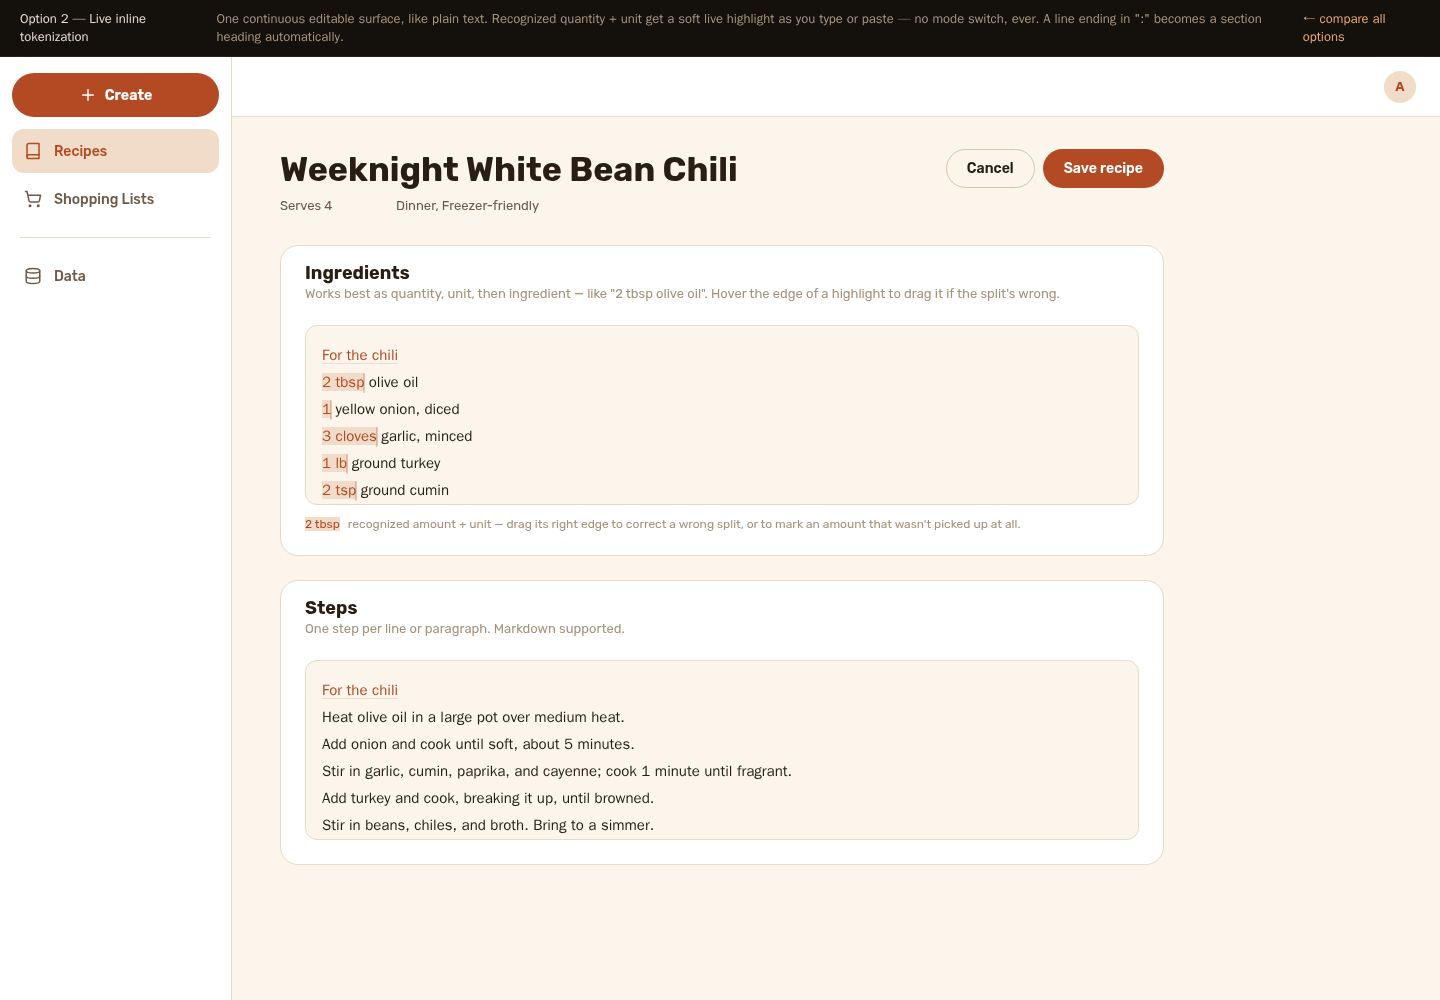
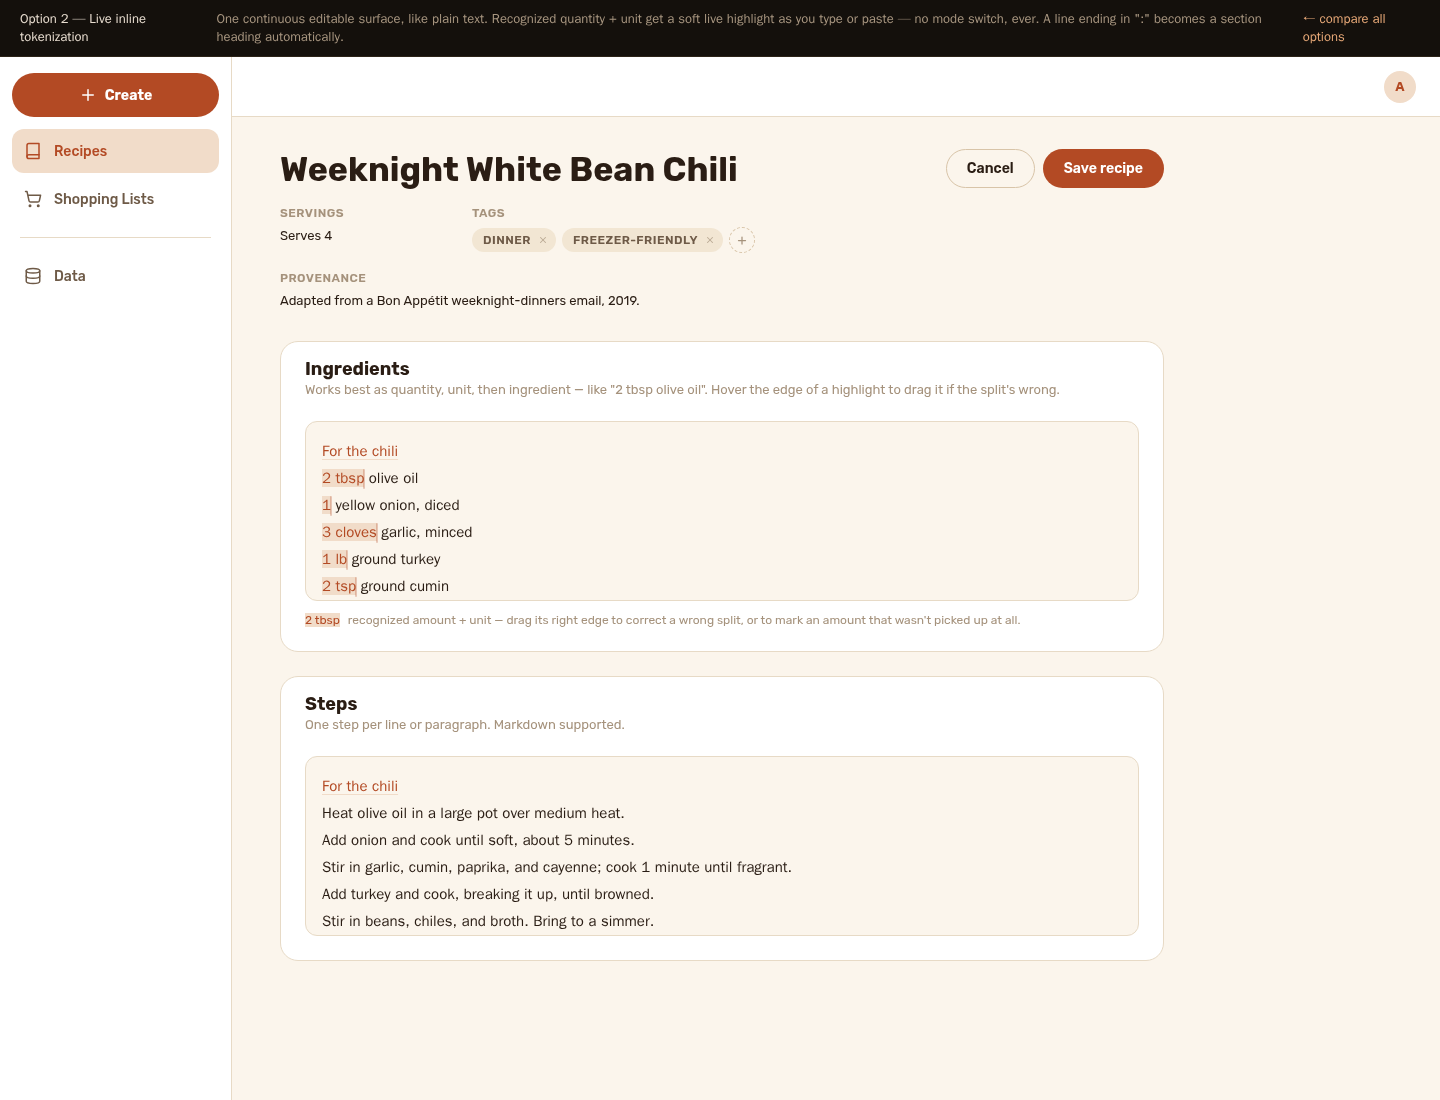
DAMN-2 mockups: editable-field affordance, provenance, tokenized tags
Owner feedback on the chosen direction (option 2):

- Recipe title/servings/provenance now show a hover tint + focus ring
  (.editable) so they read as live fields, not static labels, while
  still matching the plain-text look of the read view at rest.
- Added a Provenance field (freetext, matching the data model's
  free-text provenance column) — supports a short note, an attribution
  with a page number, or a link, per the owner's examples.
- Tags are now tokenized chips instead of a comma-separated string
  input, with a "+" control that opens an inline search/create box:
  type to filter existing tags, click to add, or hit Enter to create a
  new one verbatim if nothing matches. Chips render immediately as
  they're added — the box stays open and focused for adding several in
  a row, closes on Escape or click-away.
- Fixed the reported cursor-flicker during drag: renderOverlay tears
  down and rebuilds the handle DOM on every mousemove, so the pointer's
  hit-target kept disappearing mid-drag and the browser's cursor icon
  flickered between ew-resize and the textarea's default. A full-
  viewport capture layer during the drag keeps the pointer over one
  stable element for the whole gesture.

Verified with scripted interaction, not just visual review: tag
search/filter/create/remove (confirming chips appear immediately while
the input stays open and focused, not only after closing it), and a
full regression of the earlier geometry, click-to-caret, and drag
[…]

diff --git a/docs/features/DAMN-2-recipe-entry-and-versioning/mockups/entry-option-2-live-inline.html b/docs/features/DAMN-2-recipe-entry-and-versioning/mockups/entry-option-2-live-inline.html
@@ -28,10 +28,78 @@
   .main { grid-area: main; overflow: auto; padding: var(--space-6) var(--space-7); max-width: 980px; }
 
   .editbar { display: flex; align-items: flex-start; justify-content: space-between; gap: var(--space-5); margin-bottom: var(--space-6); }
-  .title-input { font-size: var(--text-3xl); font-weight: var(--weight-bold); border: none; background: transparent; color: var(--color-text-primary); width: 100%; padding: 0; font-family: inherit; }
-  .title-input:focus { outline: none; }
-  .meta-row { display: flex; gap: var(--space-4); margin-top: var(--space-2); }
-  .meta-row input { border: none; background: transparent; color: var(--color-text-secondary); font-size: var(--text-sm); font-family: inherit; padding: 0; }
+
+  /*
+   * Editability affordance: at rest these read like plain text (matches the read
+   * view), but a hover tint + focus ring make clear they're live fields, not
+   * labels. The negative margin offsets the padding so adding it doesn't nudge
+   * surrounding layout.
+   */
+  .editable {
+    border: none; border-radius: var(--radius-sm); background: transparent; color: var(--color-text-primary);
+    font-family: inherit; padding: 4px 6px; margin: -4px -6px;
+    transition: background var(--dur-quick) var(--ease-out);
+  }
+  .editable:hover { background: var(--color-bg-tertiary); }
+  .editable:focus { background: var(--color-bg-tertiary); outline: 2px solid var(--color-focus); outline-offset: 0; }
+  .editable::placeholder { color: var(--color-text-tertiary); font-weight: var(--weight-regular); }
+
+  .title-input { font-size: var(--text-3xl); font-weight: var(--weight-bold); width: 100%; }
+  .field-label {
+    display: block; font-size: var(--text-xs); font-weight: var(--weight-semibold); text-transform: uppercase;
+    letter-spacing: var(--tracking-caps); color: var(--color-text-tertiary); margin-bottom: 5px;
+  }
+  .meta-grid { display: flex; flex-wrap: wrap; gap: var(--space-6); margin-top: var(--space-4); }
+  .meta-field { min-width: 160px; }
+  .meta-field.tags-field { flex: 1; min-width: 240px; }
+  .servings-input { font-size: var(--text-sm); width: 140px; }
+  .provenance-field { margin-top: var(--space-4); max-width: 640px; }
+  .provenance-input { font-size: var(--text-sm); width: 100%; }
+
+  /* ---- tags: tokenized, with an inline add/search control ------------------- */
+  .tag-list { display: flex; flex-wrap: wrap; align-items: center; gap: 6px; min-height: 30px; }
+  /* display:contents so the wrapper is addressable for targeted re-renders (adding
+     a tag shouldn't touch the open input sitting next to it) without becoming a
+     flex item itself — its chip children still lay out directly in .tag-list. */
+  .tag-chips { display: contents; }
+  .tag-chip {
+    display: inline-flex; align-items: center; gap: 4px; padding: 4px 5px 4px 11px; border-radius: var(--radius-full);
+    background: var(--color-bg-tertiary); color: var(--color-text-secondary); font-size: var(--text-xs);
+    font-weight: var(--weight-semibold); text-transform: uppercase; letter-spacing: var(--tracking-caps);
+  }
+  .tag-chip button {
+    display: flex; align-items: center; justify-content: center; width: 16px; height: 16px; border-radius: 50%;
+    border: none; background: transparent; color: var(--color-text-tertiary); cursor: pointer; padding: 0; opacity: 0.7;
+  }
+  .tag-chip button:hover { background: var(--color-border-strong); color: var(--color-text-primary); opacity: 1; }
+  .tag-chip button svg { width: 10px; height: 10px; }
+  .tag-add-btn {
+    display: flex; align-items: center; justify-content: center; width: 26px; height: 26px; border-radius: 50%;
+    border: 1px dashed var(--color-border-strong); background: transparent; color: var(--color-text-tertiary); cursor: pointer;
+  }
+  .tag-add-btn:hover { background: var(--color-bg-tertiary); color: var(--color-accent); border-color: var(--color-accent); }
+  .tag-add-btn svg { width: 13px; height: 13px; }
+  .tag-input-wrap { position: relative; display: inline-block; }
+  .tag-input {
+    font: var(--text-xs)/1 var(--font-sans); font-weight: var(--weight-semibold); text-transform: uppercase;
+    letter-spacing: var(--tracking-caps); border: 1px solid var(--color-accent); border-radius: var(--radius-full);
+    padding: 7px 13px; background: var(--color-bg-primary); color: var(--color-text-primary); width: 150px;
+  }
+  .tag-input:focus { outline: none; }
+  .tag-input::placeholder { text-transform: none; font-weight: var(--weight-regular); letter-spacing: 0; color: var(--color-text-tertiary); }
+  .tag-suggestions {
+    position: absolute; top: calc(100% + 6px); left: 0; z-index: 20; min-width: 190px; max-height: 220px; overflow: auto;
+    background: var(--color-bg-secondary); border: 1px solid var(--color-border-strong); border-radius: var(--radius-md);
+    box-shadow: var(--shadow-3); padding: var(--space-2);
+  }
+  .tag-suggestion {
+    display: flex; width: 100%; align-items: center; padding: 8px var(--space-3); border: none; background: transparent;
+    cursor: pointer; border-radius: var(--radius-sm); font-size: var(--text-sm); color: var(--color-text-primary);
+    text-align: left; font-family: inherit;
+  }
+  .tag-suggestion:hover { background: var(--color-bg-tertiary); }
+  .tag-suggestion.create { color: var(--color-accent); font-weight: var(--weight-semibold); }
+
   .actions { display: flex; gap: var(--space-2); flex: none; }
   .btn { font-family: inherit; font-size: var(--text-md); font-weight: var(--weight-semibold); border-radius: var(--radius-full); padding: 10px 20px; cursor: pointer; border: 1.5px solid transparent; }
   .btn-primary { background: var(--color-accent); color: var(--color-text-on-accent); }
@@ -118,8 +186,15 @@
     transform: translateX(-50%); border-radius: 999px; background: var(--color-accent);
   }
   .tok-handle:hover { opacity: 1; }
-  body.tok-dragging { cursor: ew-resize; }
   body.tok-dragging .tok-handle { opacity: 0.9; }
+  /* Reported cursor artifacts during dragging: renderOverlay tears down and
+     rebuilds the handle DOM on every mousemove, so the element under the pointer
+     keeps momentarily disappearing mid-drag — the browser's cursor icon flickers
+     between ew-resize and whatever's briefly exposed underneath (the textarea's
+     own text-select cursor). A full-viewport capture layer during the drag keeps
+     the pointer over one stable element the whole time, so the cursor never has
+     a gap to flicker through. */
+  .drag-capture { position: fixed; inset: 0; z-index: 9999; cursor: ew-resize; }
 
   .legend { display: flex; align-items: center; gap: var(--space-2); margin-top: var(--space-3); color: var(--color-text-tertiary); font-size: var(--text-xs); }
   .legend .tok-amt { font-size: var(--text-xs); }
@@ -146,10 +221,22 @@
   <main class="main">
     <div class="editbar">
       <div style="flex:1">
-        <input class="title-input" placeholder="Recipe title" value="Weeknight White Bean Chili">
-        <div class="meta-row">
-          <input placeholder="Servings" value="Serves 4" style="width:100px">
-          <input placeholder="Tags (comma separated)" value="Dinner, Freezer-friendly" style="width:260px">
+        <input class="editable title-input" placeholder="Recipe title" value="Weeknight White Bean Chili">
+        <div class="meta-grid">
+          <div class="meta-field">
+            <span class="field-label">Servings</span>
+            <input class="editable servings-input" placeholder="e.g. Serves 4" value="Serves 4">
+          </div>
+          <div class="meta-field tags-field">
+            <span class="field-label">Tags</span>
+            <div class="tag-list" id="tag-list">
+              <span class="tag-chips" id="tag-chips"></span>
+            </div>
+          </div>
+        </div>
+        <div class="meta-field provenance-field">
+          <span class="field-label">Provenance</span>
+          <input class="editable provenance-input" placeholder="Where's this from? A book, a person, a link…" value="Adapted from a Bon Appétit weeknight-dinners email, 2019.">
         </div>
       </div>
       <div class="actions">
@@ -360,12 +447,20 @@ Ladle into bowls and top with cheese, avocado, and a squeeze of lime.`;
   // the moment anything re-renders.
   let dragState = null;
 
+  let dragCaptureEl = null;
+
   document.addEventListener('mousedown', (e) => {
     const handle = e.target.closest('.tok-handle');
     if (!handle) return;
     e.preventDefault();
     dragState = { field: handle.closest('.handles').id.replace('-handles', ''), lineIndex: Number(handle.dataset.line) };
     document.body.classList.add('tok-dragging');
+    // See the .drag-capture CSS comment: keeps the pointer over one stable element
+    // for the whole drag so the cursor icon can't flicker as the handle/overlay DOM
+    // gets rebuilt underneath it on every move.
+    dragCaptureEl = document.createElement('div');
+    dragCaptureEl.className = 'drag-capture';
+    document.body.appendChild(dragCaptureEl);
   });
 
   document.addEventListener('mousemove', (e) => {
@@ -397,8 +492,134 @@ Ladle into bowls and top with cheese, avocado, and a squeeze of lime.`;
     if (dragState) {
       dragState = null;
       document.body.classList.remove('tok-dragging');
+      if (dragCaptureEl) { dragCaptureEl.remove(); dragCaptureEl = null; }
     }
   });
+
+  // ---- Tags: tokenized chips + inline add/search, no dropdowns or modals -----
+  const TAG_CANDIDATES = [
+    'Dinner', 'Breakfast', 'Lunch', 'Dessert', 'Snack', 'Freezer-friendly', 'Quick',
+    'Baking', 'Vegetarian', 'Vegan', 'Gluten-free', 'Slow cooker', 'One-pot',
+    'Kid-friendly', 'Spicy', 'Make-ahead',
+  ];
+  let recipeTags = ['Dinner', 'Freezer-friendly'];
+
+  /** Rebuilds only the committed chips (#tag-chips) — deliberately never touches
+   * the add button or an open input, which live as siblings in #tag-list, so
+   * calling this while the search box is open doesn't blur or rebuild it. Matches
+   * chips by tag text (data-tag), not array index, so insertion order never
+   * invalidates an already-rendered remove button. */
+  function renderChips() {
+    document.getElementById('tag-chips').innerHTML = recipeTags
+      .map(
+        (tag) => `<span class="tag-chip">${escapeHtml(tag)}<button type="button" data-tag="${escapeHtml(tag)}" aria-label="Remove ${escapeHtml(tag)}"><svg viewBox="0 0 24 24" fill="none" stroke="currentColor" stroke-width="2.5" stroke-linecap="round"><path d="M18 6 6 18"/><path d="m6 6 12 12"/></svg></button></span>`,
+      )
+      .join('');
+  }
+
+  function showAddButton() {
+    const addBtn = document.createElement('button');
+    addBtn.type = 'button';
+    addBtn.className = 'tag-add-btn';
+    addBtn.setAttribute('aria-label', 'Add tag');
+    addBtn.innerHTML =
+      '<svg viewBox="0 0 24 24" fill="none" stroke="currentColor" stroke-width="2.5" stroke-linecap="round"><path d="M12 5v14"/><path d="M5 12h14"/></svg>';
+    addBtn.addEventListener('click', openTagInput);
+    document.getElementById('tag-list').appendChild(addBtn);
+  }
+
+  document.getElementById('tag-list').addEventListener('click', (e) => {
+    const removeBtn = e.target.closest('.tag-chip button');
+    if (!removeBtn) return;
+    recipeTags = recipeTags.filter((t) => t !== removeBtn.dataset.tag);
+    renderChips();
+  });
+
+  /** Opens the inline add/search control in place of the "+" button — filters
+   * TAG_CANDIDATES as you type, or creates a new tag verbatim on Enter if nothing
+   * matches exactly. Stays open after each add (mousedown preventDefault keeps the
+   * input from blurring, and adding a tag only re-renders #tag-chips, never the
+   * input itself) so adding several tags in a row is one continuous motion, not a
+   * repeated open/close — and each one appears immediately, not only on close. */
+  function openTagInput() {
+    const list = document.getElementById('tag-list');
+    list.querySelector('.tag-add-btn')?.remove();
+
+    const wrap = document.createElement('div');
+    wrap.className = 'tag-input-wrap';
+    wrap.innerHTML = '<input class="tag-input" type="text" placeholder="Search or create…">';
+    list.appendChild(wrap);
+    const input = wrap.querySelector('.tag-input');
+    input.focus();
+
+    function closeInput() {
+      wrap.remove();
+      showAddButton();
+    }
+
+    function addTag(tag) {
+      tag = tag.trim();
+      if (!tag || recipeTags.some((t) => t.toLowerCase() === tag.toLowerCase())) {
+        input.value = '';
+        updateSuggestions();
+        return;
+      }
+      recipeTags.push(tag);
+      renderChips();
+      input.value = '';
+      updateSuggestions();
+      input.focus();
+    }
+
+    function updateSuggestions() {
+      wrap.querySelector('.tag-suggestions')?.remove();
+      const q = input.value.trim().toLowerCase();
+      const matches = TAG_CANDIDATES.filter(
+        (t) => !recipeTags.includes(t) && t.toLowerCase().includes(q),
+      );
+      const exact = q && matches.some((t) => t.toLowerCase() === q);
+      if (!q && !matches.length) return;
+      const box = document.createElement('div');
+      box.className = 'tag-suggestions';
+      if (q && !exact) {
+        const createBtn = document.createElement('button');
+        createBtn.type = 'button';
+        createBtn.className = 'tag-suggestion create';
+        createBtn.textContent = `Create "${input.value.trim()}"`;
+        createBtn.addEventListener('mousedown', (e) => { e.preventDefault(); addTag(input.value); });
+        box.appendChild(createBtn);
+      }
+      matches.slice(0, 6).forEach((t) => {
+        const btn = document.createElement('button');
+        btn.type = 'button';
+        btn.className = 'tag-suggestion';
+        btn.textContent = t;
+        btn.addEventListener('mousedown', (e) => { e.preventDefault(); addTag(t); });
+        box.appendChild(btn);
+      });
+      if (box.children.length) wrap.appendChild(box);
+    }
+
+    input.addEventListener('input', updateSuggestions);
+    input.addEventListener('keydown', (e) => {
+      if (e.key === 'Enter') {
+        e.preventDefault();
+        if (input.value.trim()) addTag(input.value);
+      } else if (e.key === 'Escape') {
+        closeInput();
+      }
+    });
+    // The suggestion buttons' mousedown preventDefault stops this blur from firing
+    // when clicking one; this only closes on a genuine click-away.
+    input.addEventListener('blur', () => {
+      setTimeout(() => { if (document.activeElement !== input) closeInput(); }, 120);
+    });
+
+    updateSuggestions();
+  }
+
+  renderChips();
+  showAddButton();
 </script>
 
 </body>
